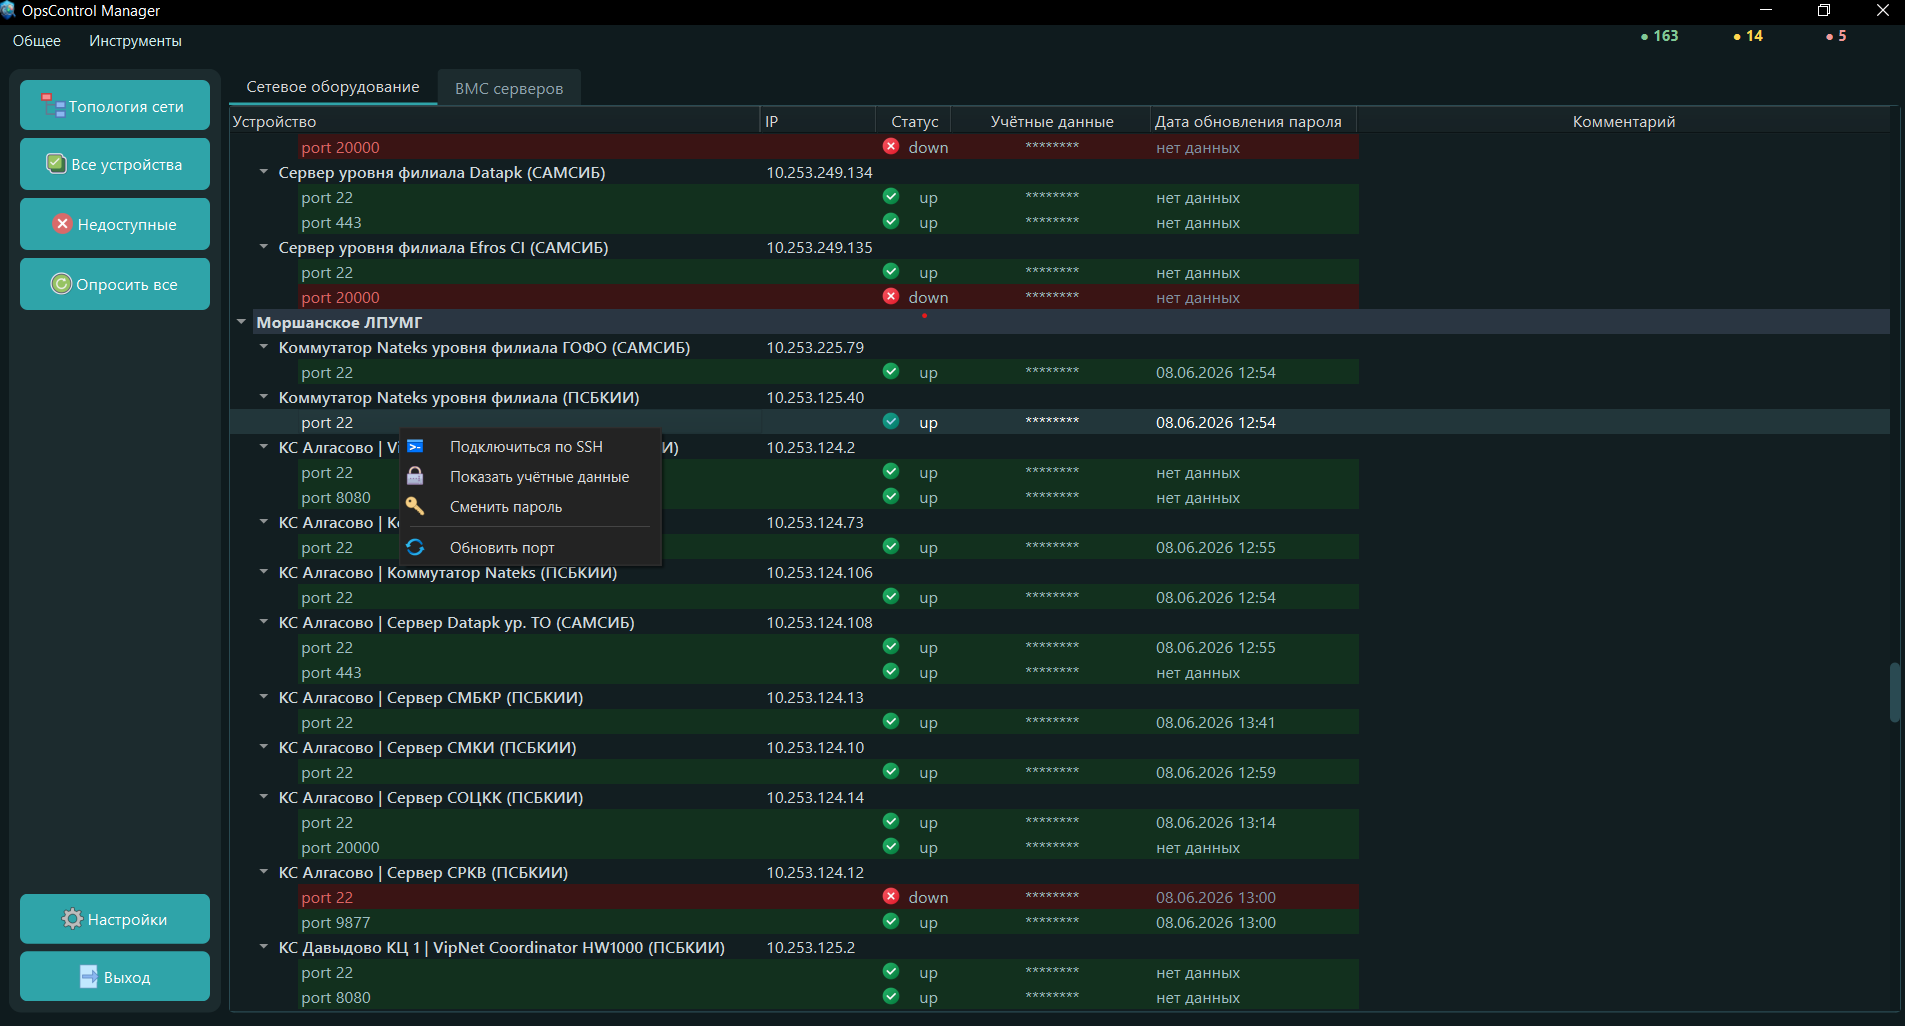
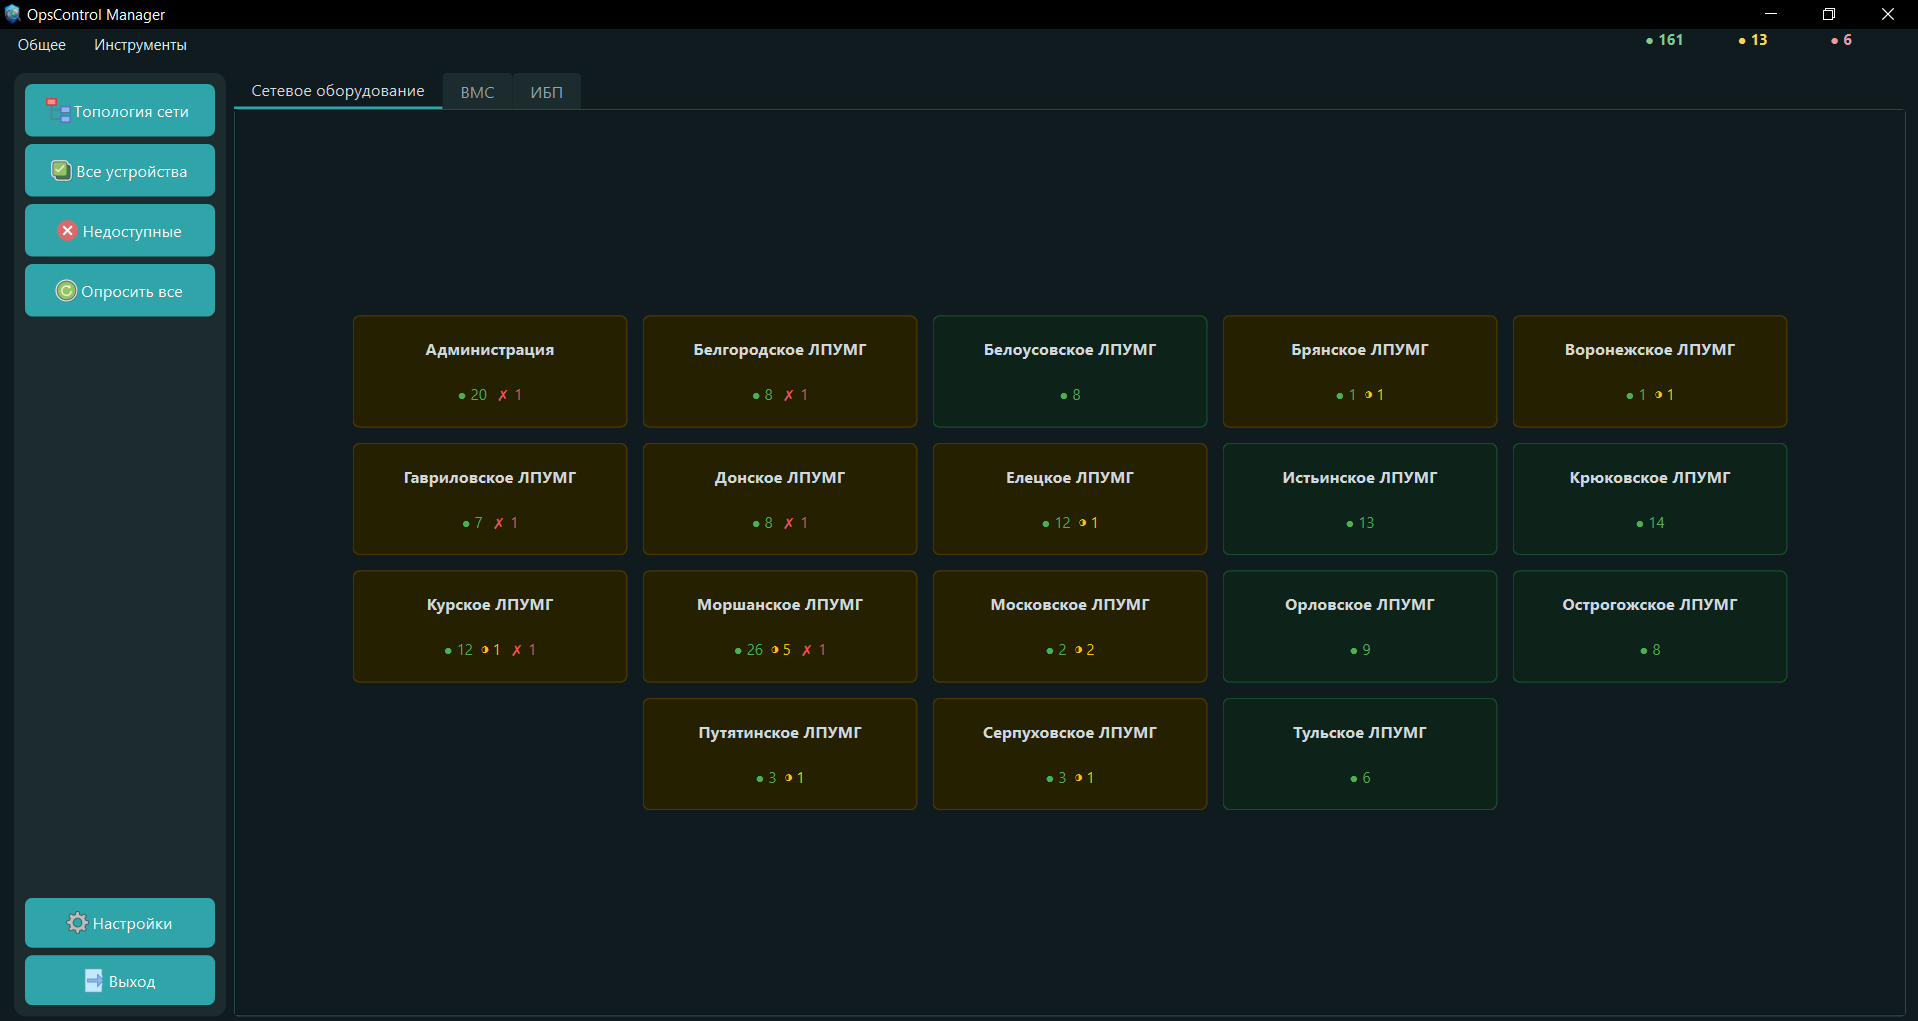
edit readmi

diff --git a/README.md b/README.md
@@ -50,6 +50,10 @@
 
 ![Main Window](docs/screenshots/main-window.png)
 
+### Окно уровня филиала
+
+![Main Window](docs/screenshots/main-window_2.png)
+
 
 ## Функциональность
 
